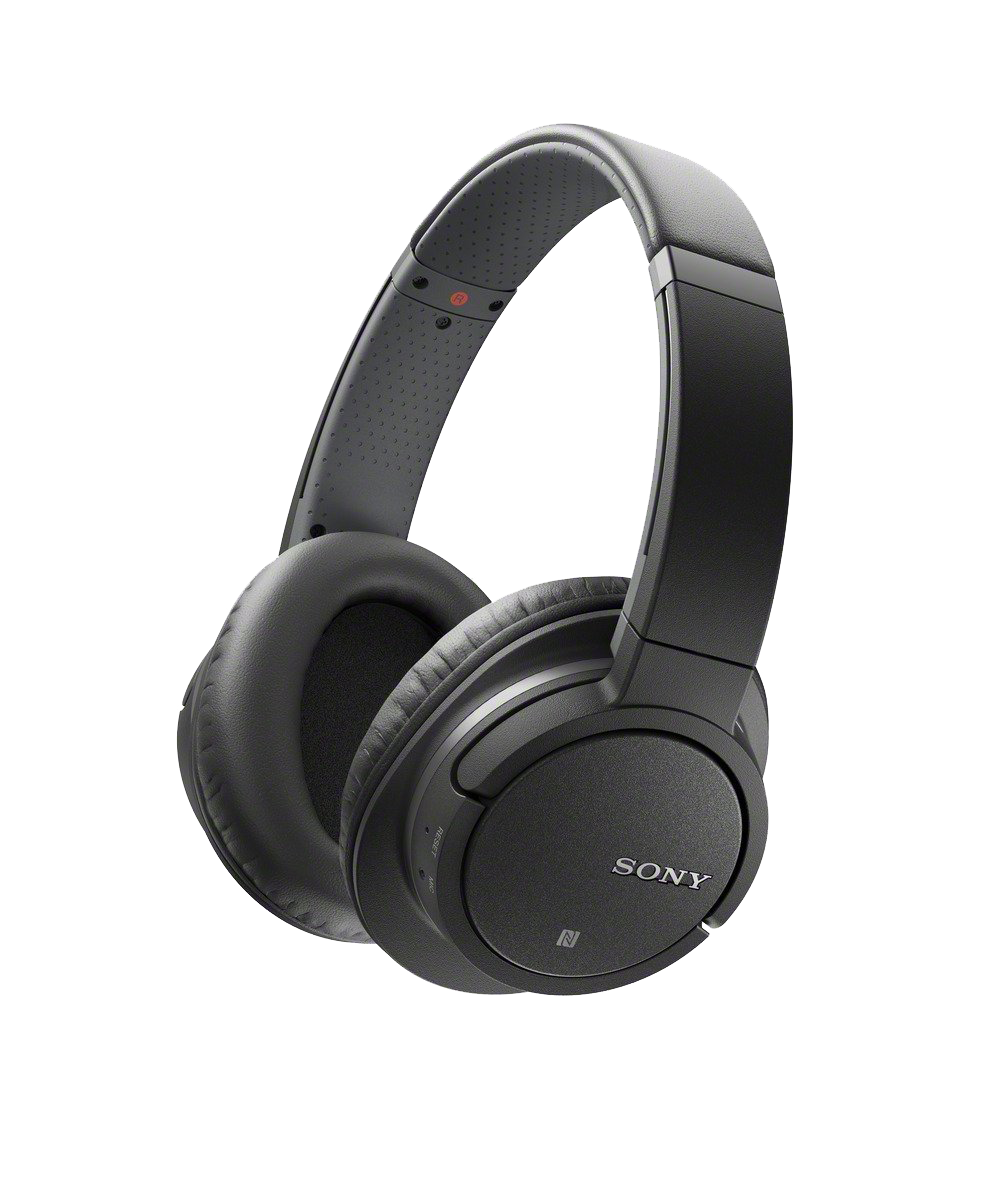
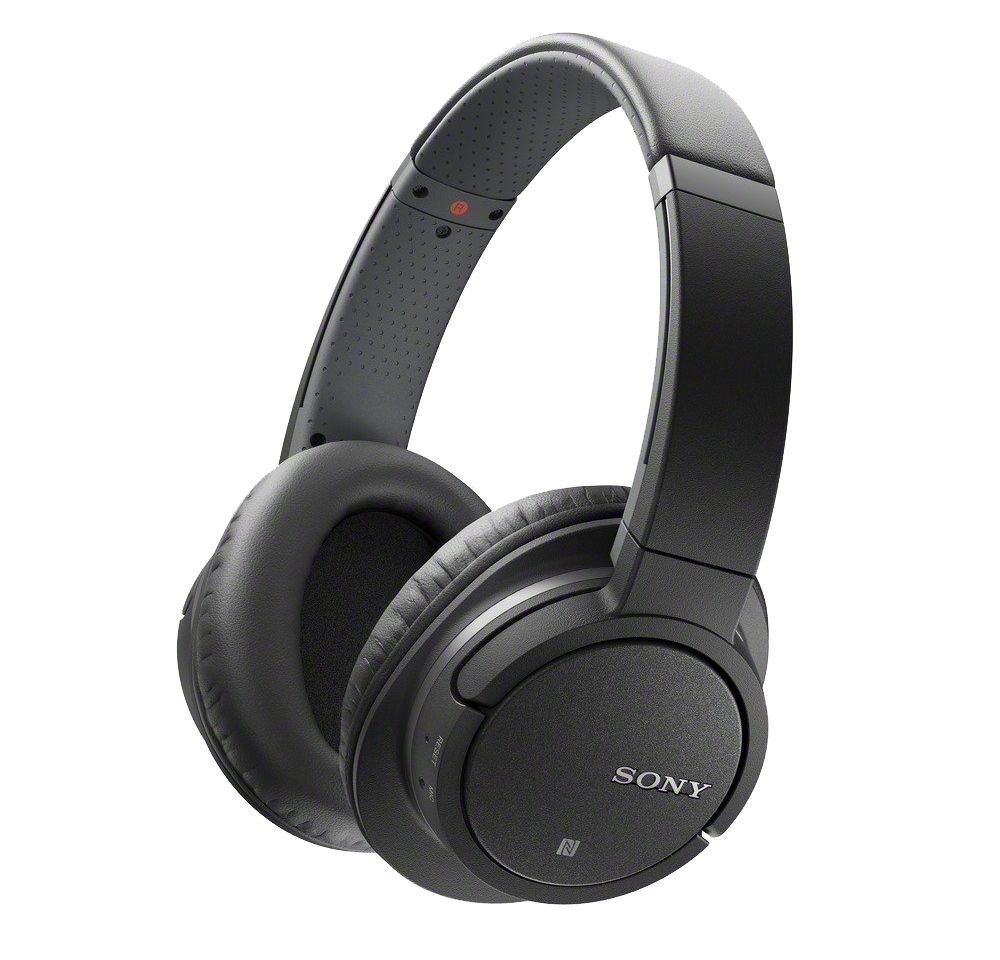
Earonaut up: added framer motion animations, initial, animate, whileInView, transition, exit, AnimatePresence etc)

Changed region(s): [[0.155, 0.0312, 0.806, 0.9688], [0.775, 0.4375, 0.806, 0.5]]

diff --git a/src/components/hero/Hero.jsx b/src/components/hero/Hero.jsx
@@ -1,43 +1,144 @@
 import {ChevronLeft, ChevronRight} from "lucide-react"
+import {motion, AnimatePresence} from "motion/react"
+import { div } from "motion/react-client"
+
 
 const Hero = ({data, CI}) => {
     console.log(data, CI)
   return (
-    <div className='bg-red-800 flex w-full justify-between h-200'> 
-        <div className='w-[40%] flex flex-col mt-30 gap-10 items-center'>
-        <div className='bg-white/20 w-[80%] flex flex-col gap-20 justify-around p-5'>
-            <div className='text-6xl font-extrabold text-white'>
-                <h1>{data[CI].name}</h1>
-            </div>
-            <div className='w-[70%] flex flex-col gap-5'>
+    <div className="flex flex-col justify-center items-center relative">
+
+    <AnimatePresence mode="wait">
+
+    <motion.div className='flex w-full justify-between h-200 ' key={CI}> 
+        <div className='w-[50%] flex flex-col mt-30 gap-10 items-center'>
+        <div className='w-[80%] flex flex-col gap-20 justify-around p-5'>
+            <motion.div className='text-6xl font-extrabold text-white'
+                initial={{
+                    opacity:0,
+                    y:-50
+                }}
+                animate={{
+                    opacity:1,
+                    y:0
+                }}
+                exit={{
+                    opacity:0,
+                    y:-50
+                }}
+                transition={{
+                    duration:0.5,
+                    delay:0.5
+                }}
+                >
+                <h1 className="headphoneName">{data[CI].name}</h1>
+            </motion.div>
+            <motion.div className='w-[70%] flex flex-col gap-5 brandanddesc'
+            initial={{
+                opacity:0,
+                y:50
+            }}
+            animate={{
+                opacity:1,
+                y:0
+            }}
+            exit={{
+                opacity:0,
+                y:50
+            }}
+            transition={{
+                duration:0.5,
+                delay:0.5
+            }}
+            >
                 <h1 className='text-4xl font-bold text-white'>{data[CI].brand}</h1>
                 <p className='text-sm text-white'>{data[CI].description}</p>
-            </div>
+            </motion.div>
         </div>
 
-        <div className='flex items-center gap-3'>
+        <motion.div className='flex items-center gap-3' 
+            initial={{
+                opacity:0,
+                y:100
+            }}
+            animate={{
+                opacity:1,
+                y:0
+            }}
+            exit={{
+                opacity:0,
+                y:100
+            }}
+            transition={{
+                duration:0.5,
+                delay:0.5
+            }}
+            >
             <h1 className='text-white text-xl font-bold'>Colors Available: </h1>
                 <p className='w-5 h-5 bg-[#2a2a2c] rounded-full'></p>
                 <p className='w-5 h-5 bg-[#9113cc] rounded-full'></p>
                 <p className='w-5 h-5 bg-[#f0bb0e] rounded-full'></p>
                 <p className='w-5 h-5 bg-[#6742ac] rounded-full'></p>
             
+        </motion.div>
+
+      
         </div>
 
-        <div className="flex gap-15 text-white">
-            <div className="bg-black/20 rounded-full border border-whtie/20"><ChevronLeft size={56} strokeWidth={2.5} /></div>
-            <div className="bg-black/20 rounded-full border border-whtie/20"><ChevronRight size={56} strokeWidth={2.5} /></div>
-        </div>
-        </div>
-
-        <div className='w-[50%] flex justify-center bg-black/20'>
-            <div className='heroimg relative flex h-[80%] items-center justify-center'>
+        <div className='w-[50%] flex justify-center'>
+            <div className='heroimg relative flex h-full items-center justify-center overflow-hidden'>
             <h1 className='text-9xl font-bold text-white'>EARONAUT</h1>
-            <img src={data[CI].img} alt="" className="w-180 absolute top-10 z-20"/>
+            <motion.img src={data[CI].img} alt="" className="w-full  absolute top-10 z-20"
+            initial={{
+                opacity:0,
+                x:100,
+                rotate:10
+            }}
+            whileInView={{
+                opacity:1,
+                x:0,
+                rotate:0
+            }}
+         
+            exit={{
+                opacity:0,
+                x:-100
+            }}
+            
+            transition={{
+                duration:0.5,
+                delay:0.5
+            }}
+            
+            />
             </div>
-            <div className='w-80 h-80 bg-[#a764649c] absolute blur-3xl top-[50%]'></div>
+          
         </div>
-    </div>
+    </motion.div>
+        </AnimatePresence>
+        <motion.div className=" absolute bottom-20 flex gap-15 text-white"
+         initial={{
+             opacity:0,
+             y:100
+            }}
+            animate={{
+                opacity:1,
+                y:0
+            }}
+            transition={{
+                duration:0.5,
+                delay:1.1
+            }}
+            >
+                <button className="bg-black/20 rounded-full border border-whtie/20">
+                <ChevronLeft size={56} strokeWidth={2.5} />
+                </button>
+                <button className="bg-black/20 rounded-full border border-whtie/20">
+                <ChevronRight size={56} strokeWidth={2.5} />
+                </button>
+
+        </motion.div>
+</div>
   )
 }
 

diff --git a/src/components/navbar/Navbar.jsx b/src/components/navbar/Navbar.jsx
@@ -3,23 +3,98 @@ import logo from "../../assets/earonautlogo.png"
 import {CircleUser, ShoppingCart} from "lucide-react"
 
 const Navbar = () => {
-  return (
-    <div className="flex justify-between items-center h-20 bg-red-700">
-        <div className="w-[20%]">
-            <img src={logo} alt="earonaut logo" className="w-40"/>
-        </div>
-        <div className="w-[40%] flex justify-evenly text-2xl font-bold text-white/70">
-            <a href="#">Home</a>
-            <a href="#">New Releases</a>
-            <a href="#">Brands</a>
-            <a href="#">Explore</a>
-        </div>
+    const navLinks =[
+        {
+            id:1,
+            nav: "Home",
+            address: "#"
+        },
+        {
+            id:1,
+            nav: "New Releases",
+            address: "#"
+        },
+        {
+            id:1,
+            nav: "Brands",
+            address: "#"
+        },
+        {
+            id:1,
+            nav: "Explore",
+            address: "#"
+        },
 
-        <div className="w-[20%] flex justify-center gap-5 text-white">
-            <div><CircleUser size={40} strokeWidth={1.5} /></div>
-            <div><ShoppingCart size={40} strokeWidth={1.5} /></div>
-        </div>
-    </div>
+    ]
+  return (
+    <motion.div className="flex justify-between items-center h-20"
+     
+    >
+        <motion.div className="w-[20%]"
+            initial={{
+            opacity:0,
+            x:-100
+        }}
+        animate={{
+            opacity:1,
+            x:0
+        }}
+        transition={{
+            duration:0.5,
+            delay:0.1
+        }}
+        >
+            <img src={logo} alt="earonaut logo" className="w-40"/>
+        </motion.div>
+        <motion.div className="w-[40%] flex items-center text-2xl font-bold text-white/70 navlinks"
+        initial={{
+            opacity:0,
+            y:-100
+        }}
+        animate={{
+            opacity:1,
+            y:0
+        }}
+        transition={{
+            duration:0.5,
+            delay:0.3
+        }}
+        >
+            <ul className="flex w-full justify-evenly items-center">
+                {navLinks.map((values)=> {
+                    return <motion.li className="cursor-pointer" key={values.id}
+                    whileHover={{
+                        scale:1.1,
+                        opacity:1,
+                        color:"white"
+                    }}
+                    transition={{
+                        duration:0.3,
+                        ease:"easeIn"
+                    }}
+                    >{values.nav}</motion.li>
+                })}
+            </ul>
+        </motion.div>
+
+        <motion.div className="w-[20%] flex justify-center gap-5 text-white"
+          initial={{
+            opacity:0,
+            x:100
+        }}
+        animate={{
+            opacity:1,
+            x:0
+        }}
+        transition={{
+            duration:0.5,
+            delay:0.5
+        }}
+        >
+            <div><CircleUser size={30} strokeWidth={1.5} /></div>
+            <div><ShoppingCart size={30} strokeWidth={1.5} /></div>
+        </motion.div>
+    </motion.div>
   )
 }
 

diff --git a/src/index.css b/src/index.css
@@ -1,4 +1,6 @@
 @import url('https://fonts.googleapis.com/css2?family=Anton&family=Bungee&family=Creepster&family=Lobster&display=swap');
+@import url('https://fonts.googleapis.com/css2?family=Amarante&family=Anton&family=Bungee&family=Creepster&family=Lobster&display=swap');
+@import url('https://fonts.googleapis.com/css2?family=Aladin&family=Amarante&family=Anton&family=Bungee&family=Creepster&family=Lobster&display=swap');
 
 @import "tailwindcss";
 
@@ -6,6 +8,33 @@
     -webkit-box-reflect: below -200px linear-gradient(transparent, rgba(0,0,0,0.2));
 }
 
-.heroimg > h1 {
+.heroimg > h1, .headphoneName {
      font-family: "Bungee", sans-serif;
+}
+
+.brandanddesc {
+    font-family: "Aladin";
+}
+.brandanddesc > p {
+    font-family: "Amarante";
+}
+
+.navlinks > ul > li {
+    font-family: "Aladin";
+}
+
+.homepage {
+    background: 
+    radial-gradient(circle at top left, rgba(255, 45, 85, 0.35), transparent 40%),
+    radial-gradient(circle at top right, rgba(220, 38, 38, 0.30), transparent 40%),
+    radial-gradient(circle at bottom left, rgba(127, 29, 29, 0.25), transparent 40%),
+    radial-gradient(circle at bottom right, rgba(185, 28, 28, 0.30), transparent 40%),
+    linear-gradient(
+      135deg,
+      #050505 0%,
+      #7F1D1D 25%,
+      #DC2626 50%,
+      #7F1D1D 75%,
+      #050505 100%
+    )
 }

diff --git a/src/App.jsx b/src/App.jsx
@@ -108,16 +108,16 @@ const App = () => {
     img: hdp10,
   },
 ];
-  // useEffect(() => {
+  useEffect(() => {
     
-  //  const timerId = setTimeout(() => {
-  //     setcurrentIdx(prev => prev = (prev+1) % headphoneData.length)
-  //   }, 2000);
+   const timerId = setTimeout(() => {
+      setcurrentIdx(prev => prev = (prev+1) % headphoneData.length)
+    }, 3000);
   
-  //   return () => {
-  //     clearTimeout(timerId)
-  //   }
-  // }, [currentIdx])
+    return () => {
+      clearTimeout(timerId)
+    }
+  }, [currentIdx])
   
 
 
@@ -126,12 +126,23 @@ const App = () => {
   
   return (
     <div>
+      <motion.div className="homepage absolute -z-100"
+        animate={{
+
+      }}
+  transition={{
+    duration: 2,
+    repeat: Infinity,
+    ease: "easeInOut",
+  }}
+      >
       <div>
         <Navbar />
       </div>
       <div>
         <Hero data={headphoneData} CI = {currentIdx}/>
       </div>
+      </motion.div>
      
     </div>
   )